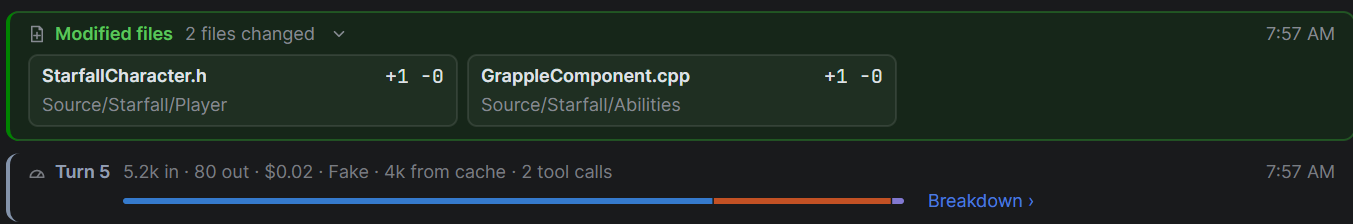
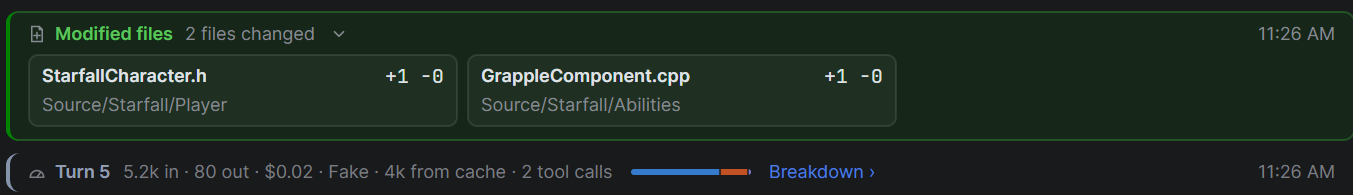
Put a turn's bar and Breakdown › on its line, so its card is one line
A turn's card had its statistics on its line and the kinds bar and
Breakdown › under it. They now follow the statistics on the same line, the
bar 80 pixels wide; in a pane too narrow for them, they go under the
statistics together rather than squeezing them.

diff --git a/tests/Deventry.App.UiTests/ConversationCardsUiTests.cs b/tests/Deventry.App.UiTests/ConversationCardsUiTests.cs
@@ -222,19 +222,18 @@ public sealed class ConversationCardsUiTests
     }
 
     /// <summary>
-    /// A turn's card is a line with its bar under it (DESIGN.md §18, "A turn's card"): its icon is on the line, with the
-    /// label, not in the middle of the line and the bar.
+    /// A turn's card is one line (DESIGN.md §18, "A turn's card"): its icon, its label, its statistics, then its bar and
+    /// <b>Breakdown ›</b>, which go under the statistics in a narrow pane.
     /// </summary>
     [AvaloniaFact]
-    public async Task A_turns_icon_is_on_its_labels_line_not_between_the_line_and_its_bar()
+    public async Task A_turns_card_is_one_line_with_its_bar_and_Breakdown_after_its_statistics()
     {
         await using var h = new TabTestHarness(dispatcher: new AvaloniaUiDispatcher());
         var tab = await h.OpenTabAsync();
         var window = UiText.Show(new ShellView { DataContext = h.Shell });
-        tab.Items.Add(new TurnSummaryItem("15.1s · 1.5M in · 1.2k out · $0.34 · Opus 5.5")
+        tab.Items.Add(new TurnSummaryItem("15.1s · 1.5M in · 1.2k out · $0.34")
         {
             Kinds = new KindValues(1_500_000, 0, 2_000, 1_200),
-            ToolCalls = 2,
             TurnNumber = 120,
             TurnId = "turn-120",
         });
@@ -244,11 +243,29 @@ public sealed class ConversationCardsUiTests
         var card = Named(window, "stats")[0];
         var icon = card.GetVisualDescendants().OfType<Avalonia.Controls.Shapes.Path>().Single(p => p.Name == "PART_Icon");
         var label = card.GetVisualDescendants().OfType<TextBlock>().Single(t => t.Name == "PART_Label");
+        var stats = card.GetVisualDescendants().OfType<TextBlock>().Single(t => t.Name == "TurnStats");
         var bar = card.GetVisualDescendants().OfType<KindsBar>().Single();
+        var breakdown = card.GetVisualDescendants().OfType<Button>().Single(b => Equals(b.Content, "Breakdown ›"));
         Assert.Equal("Turn 120", label.Text);
-        var middle = icon.TranslatePoint(new Point(0, icon.Bounds.Height / 2), window)!.Value.Y;
-        Assert.InRange(middle - FirstLine.MiddleIn(label, window)!.Value, -0.6, 0.6);
-        Assert.True(middle < bar.TranslatePoint(default, window)!.Value.Y, "The icon is level with the bar or below it.");
+        Assert.Single(stats.TextLayout.TextLines);
+        var line = FirstLine.MiddleIn(label, window)!.Value;
+        double Middle(Control control) => control.TranslatePoint(new Point(0, control.Bounds.Height / 2), window)!.Value.Y;
+        Assert.InRange(Middle(icon) - line, -0.6, 0.6);
+        Assert.InRange(FirstLine.MiddleIn(stats, window)!.Value - line, -1, 1);
+        Assert.InRange(Middle(bar) - line, -1, 1);
+        Assert.InRange(Middle(breakdown) - line, -1, 1);
+        // After the statistics, the bar, then Breakdown ›.
+        double Left(Control control) => control.TranslatePoint(default, window)!.Value.X;
+        Assert.True(Left(bar) > Left(stats) + stats.TextLayout.WidthIncludingTrailingWhitespace);
+        Assert.True(Left(breakdown) > Left(bar) + bar.Bounds.Width);
+
+        // In a narrow pane the bar and Breakdown › go under the statistics, which keep their room; the icon stays on the
+        // label's line.
+        window.Width = 800;
+        UiText.Settle(window);
+        Assert.True(Middle(bar) > FirstLine.MiddleIn(stats, window)!.Value + stats.TextLayout.TextLines[0].Height / 2, "The bar is beside the statistics, not under them.");
+        Assert.InRange(Left(bar) - Left(stats), -1, 1);
+        Assert.InRange(Middle(icon) - FirstLine.MiddleIn(label, window)!.Value, -0.6, 0.6);
         window.Close();
     }
 

diff --git a/DESIGN.md b/DESIGN.md
@@ -4902,7 +4902,7 @@ A Markdown file in a [Project Files](#project-files) tab shows rendered as well 
 
 ✅ Built 2026-11-15 (step 4).
 
-- A turn's **Turn** card ([§18](#conversation-cards)) adds its number (*Turn 9*) and cost to its line, a thin kinds bar under it, a chip when its first call found the cache expired (*"The cache had expired: $1.23 to read the conversation again"*, in the caution color) and **Breakdown ›**. The number is the tab's count of turns, recorded with the turn, so the window numbers it the same. A tab restored after Deventry restarts has no cards for its earlier turns, as before: the transcript has no `result` to make them from. Their breakdown is in the window.
+- A turn's **Turn** card ([§18](#conversation-cards)) adds its number (*Turn 9*) and cost to its line, and after them a thin kinds bar and **Breakdown ›**, so the card is one line; in a pane too narrow for them, the bar and **Breakdown ›** go under the statistics together. Under it, a chip when its first call found the cache expired (*"The cache had expired: $1.23 to read the conversation again"*, in the caution color). The bar and **Breakdown ›** were under the line until 2026-11-18. The number is the tab's count of turns, recorded with the turn, so the window numbers it the same. A tab restored after Deventry restarts has no cards for its earlier turns, as before: the transcript has no `result` to make them from. Their breakdown is in the window.
 - The composer token count's popup ([§4](#4-tabs--sessions), "Token stats per tab") keeps its table, summary and session window's tokens, and adds the two kinds bars, the last 24 turns' columns by kind with their marks (taking the place of its line of tokens per turn; a click opens the window on one), the last turn's tokens and cost, and **Open breakdown**.
 - The info card's **Tokens** row adds the cost and, once the breakdown has been read, the share of the limit: *10.1M tokens · about $10.47 · 12 turns · ≈ 23% of the session limit*.
 

diff --git a/docs/conversation/the-end-of-a-turn.md b/docs/conversation/the-end-of-a-turn.md
@@ -24,7 +24,7 @@ A **Turn** card, one quiet line, comes next: how long the turn took, tokens in a
 
 {% include unreleased.html %}
 
-The card's label has the turn's number, *Turn 9*, as the tab's [token breakdown](../usage/token-breakdown.md) numbers it, and a thin bar under the line shows its tokens by kind. When the turn was sent after the [prompt cache](../usage/the-prompt-cache.md) had expired, a warning in the caution color says what reading the whole conversation again cost. **Breakdown ›** opens the breakdown on the turn. A tab Deventry restores after a restart shows its earlier turns without their cards, as Claude Code's transcript doesn't keep them; the tab's [token breakdown](../usage/token-breakdown.md) has them.
+The card's label has the turn's number, *Turn 9*, as the tab's [token breakdown](../usage/token-breakdown.md) numbers it, and a thin bar after its statistics shows its tokens by kind, beside **Breakdown ›**. When the turn was sent after the [prompt cache](../usage/the-prompt-cache.md) had expired, a warning in the caution color says what reading the whole conversation again cost. **Breakdown ›** opens the breakdown on the turn. A tab Deventry restores after a restart shows its earlier turns without their cards, as Claude Code's transcript doesn't keep them; the tab's [token breakdown](../usage/token-breakdown.md) has them.
 
 ## Tasks
 

diff --git a/docs/usage/token-breakdown.md b/docs/usage/token-breakdown.md
@@ -97,7 +97,7 @@ The **Tokens** tool window keeps the parts of the breakdown that help while you 
 
 ## On each turn's card
 
-The **Turn** card at the end of each turn says its number and what it cost, with a thin bar of its kinds of token under it. When the turn was sent after the prompt cache had expired, a warning says what reading the conversation again cost. **Breakdown ›** opens the breakdown on that turn. See [The end of a turn](../conversation/the-end-of-a-turn.md).
+The **Turn** card at the end of each turn says its number and what it cost, with a thin bar of its kinds of token on its line. When the turn was sent after the prompt cache had expired, a warning says what reading the conversation again cost. **Breakdown ›** opens the breakdown on that turn. See [The end of a turn](../conversation/the-end-of-a-turn.md).
 
 ## Older turns
 
